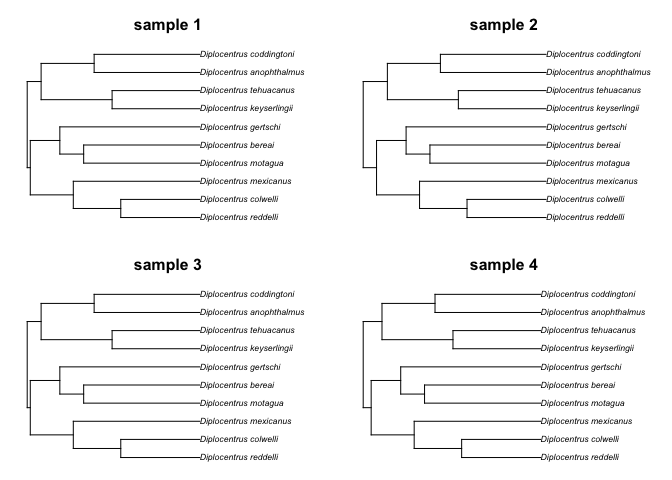
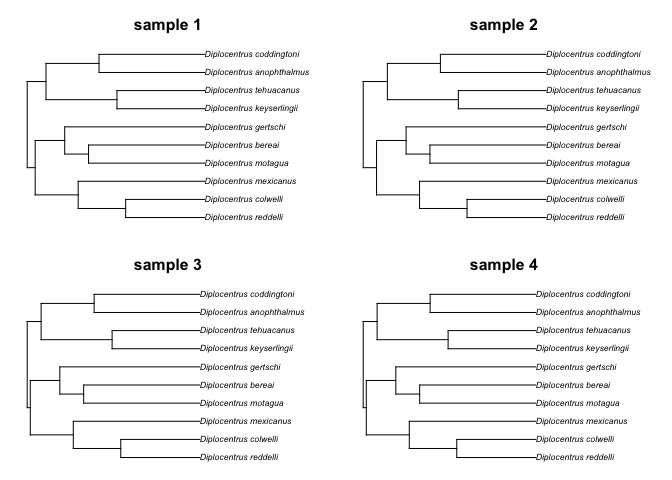
small fix to treepplr text

diff --git a/pages/code/treepplr-example.md b/pages/code/treepplr-example.md
@@ -40,9 +40,9 @@ load_all()
 ## Diversification models (CRBD)
 
 CRBD, ClaDS2, and BDD2 models are all fitted the same way, so I’ll use
-CRBD as the example here. For this example, I’m gonna use a tree for the
-scorpion genus Centruroides, which is shipped with the treepplr’s
-version on my branch improvements:
+CRBD as the example here. I’ll use a tree of the scorpion genus
+*Centruroides*, which is included in the version of treepplr on my
+`improvements` branch:
 
 ``` r
 # read in the tree
@@ -127,7 +127,7 @@ data_crbd <- tp_data(
     ── Input Check ──
 
     JSON file:
-    '/private/var/folders/vh/0rc0zn655lsd4yxfvkgdk1hr0000gp/T/RtmpeNbdf1//input-crbd-5426756.json'
+    '/private/var/folders/vh/0rc0zn655lsd4yxfvkgdk1hr0000gp/T/RtmpyQlJz4//input-crbd-5426756.json'
 
     Model name: crbd
 
@@ -154,7 +154,7 @@ data_crbd
     ── Data Input ──
 
     Data file:
-    '/private/var/folders/vh/0rc0zn655lsd4yxfvkgdk1hr0000gp/T/RtmpeNbdf1//input-crbd-5426756.json'
+    '/private/var/folders/vh/0rc0zn655lsd4yxfvkgdk1hr0000gp/T/RtmpyQlJz4//input-crbd-5426756.json'
 
     Model: "crbd"
 
@@ -256,14 +256,14 @@ crbd_smc_res <- tp_run(
 
     ✔ Completed
 
-    Elapsed time: 0.75 secs
+    Elapsed time: 0.95 secs
 
     Model: crbd
 
     Method: smc-apf
 
     Output directory:
[2 lines of base64/hex data omitted]
 
     Output file(s): "out.json"
 
@@ -282,14 +282,14 @@ crbd_mcmc_res <- tp_run(
 
     ✔ Completed
 
-    Elapsed time: 2.98 secs
+    Elapsed time: 4.11 secs
 
     Model: crbd
 
     Method: mcmc
 
     Output directory:
[2 lines of base64/hex data omitted]
 
     Output file(s): "out1.json" and "out2.json"
 
@@ -359,14 +359,14 @@ crbd_smc_res_sub <- tp_run(
 
     ✔ Completed
 
-    Elapsed time: 0.72 secs
+    Elapsed time: 0.73 secs
 
     Model: crbd
 
     Method: smc-apf
 
     Output directory:
[2 lines of base64/hex data omitted]
 
     Output file(s): "out.json"
 
@@ -391,16 +391,16 @@ crbd_smc_res
     # A tibble: 28 × 7
        sweep particle log_weight norm_constant norm_weight lambda    mu
        <int>    <int>      <dbl>         <dbl>       <dbl>  <dbl> <dbl>
-     1     1        1      -2.55         -492.           1  0.292 0.239
-     2     1        2      -2.55         -492.           1  0.292 0.239
-     3     1        3      -2.55         -492.           1  0.292 0.239
-     4     1        4      -2.55         -492.           1  0.292 0.239
-     5     1        6      -2.55         -492.           1  0.292 0.239
-     6     1        7      -2.55         -492.           1  0.292 0.239
-     7     1        8      -2.55         -492.           1  0.292 0.239
-     8     1        9      -2.55         -492.           1  0.292 0.239
-     9     1       10      -2.55         -492.           1  0.292 0.239
-    10     1       11      -2.55         -492.           1  0.292 0.239
+     1     1        1      -2.64         -546.    1.34e-32  0.759 0.696
+     2     1        2      -2.64         -546.    1.34e-32  0.759 0.696
+     3     1        3      -2.64         -546.    1.34e-32  0.759 0.696
+     4     1        4      -2.64         -546.    1.34e-32  0.759 0.696
+     5     1        5      -2.64         -546.    1.34e-32  0.759 0.696
+     6     1        6      -2.64         -546.    1.34e-32  0.759 0.696
+     7     1        7      -2.64         -546.    1.34e-32  0.759 0.696
+     8     1        8      -2.64         -546.    1.34e-32  0.759 0.696
+     9     1        9      -2.64         -546.    1.34e-32  0.759 0.696
+    10     1       11      -2.64         -546.    1.34e-32  0.759 0.696
     # ℹ 18 more rows
 
 ``` r
@@ -418,10 +418,10 @@ crbd_smc_res_sub
     # A tibble: 4 × 7
       sweep particle log_weight norm_constant norm_weight lambda    mu
       <int>    <int>      <dbl>         <dbl>       <dbl>  <dbl> <dbl>
-    1     1        1     -0.693         -865.    6.15e-65  0.458 0.140
-    2     1        2     -0.693         -865.    6.15e-65  0.458 0.140
-    3     2        1     -0.693         -717.    1   e+ 0  0.624 0.382
-    4     2        2     -0.693         -717.    1   e+ 0  0.624 0.382
+    1     1        1     -0.693         -502.  0.00000928  0.334 0.268
+    2     1        2     -0.693         -502.  0.00000928  0.334 0.268
+    3     2        1     -0.693         -491.  1           0.345 0.304
+    4     2        2     -0.693         -491.  1           0.345 0.304
 
 ``` r
 table(crbd_smc_res_sub$sweep)
@@ -438,16 +438,16 @@ crbd_mcmc_res
     # A tibble: 32 × 4
          run iteration  lambda       mu
        <int>     <int>   <dbl>    <dbl>
-     1     1         1 0.00339 0.000301
-     2     1         2 0.00339 0.000301
-     3     1         3 0.00339 0.000301
-     4     1         4 0.00339 0.000301
-     5     1         5 0.00339 0.000301
-     6     1         6 0.00339 0.000301
-     7     1         7 0.00339 0.000301
-     8     1         8 0.00339 0.000301
-     9     1         9 0.00339 0.000301
-    10     1        10 0.00339 0.000301
+     1     1         1 0.00146 0.000481
+     2     1         2 0.00146 0.000481
+     3     1         3 0.00146 0.000481
+     4     1         4 0.00146 0.000481
+     5     1         5 0.00146 0.000481
+     6     1         6 0.00146 0.000481
+     7     1         7 0.00146 0.000481
+     8     1         8 0.00146 0.000481
+     9     1         9 0.00146 0.000481
+    10     1        10 0.00146 0.000481
     # ℹ 22 more rows
 
 ``` r
@@ -557,7 +557,7 @@ data_tree_inf <- tp_data(
     ── Input Check ──
 
     JSON file:
-    '/private/var/folders/vh/0rc0zn655lsd4yxfvkgdk1hr0000gp/T/RtmpeNbdf1//input-tree_inference_pruning_gtr-31eaa08.json'
+    '/private/var/folders/vh/0rc0zn655lsd4yxfvkgdk1hr0000gp/T/RtmpyQlJz4//input-tree_inference_pruning_gtr-31eaa08.json'
 
     Model name: tree_inference_pruning_gtr
 
@@ -601,14 +601,14 @@ tree_smc_res <- tp_run(
 
     ✔ Completed
 
-    Elapsed time: 0.83 secs
+    Elapsed time: 0.94 secs
 
     Model: tree_inference_pruning_gtr
 
     Method: smc-apf
 
     Output directory:
[2 lines of base64/hex data omitted]
 
     Output file(s): "out.json"
 
@@ -633,14 +633,14 @@ tree_mcmc_res <- tp_run(
 
     ✔ Completed
 
-    Elapsed time: 1.97 secs
+    Elapsed time: 1.83 secs
 
     Model: tree_inference_pruning_gtr
 
     Method: mcmc
 
     Output directory:
[2 lines of base64/hex data omitted]
 
     Output file(s): "out-mcmc1.json" and "out-mcmc2.json"
 
@@ -658,8 +658,8 @@ str(tree_smc_res)
 
     List of 3
      $ tree        :List of 5
-      ..$ edge       : int [1:18, 1:2] 11 12 13 13 14 14 12 15 15 16 ...
-      ..$ edge.length: num [1:18] 0.0301 0.0226 0.2983 0.2733 0.025 ...
+      ..$ edge       : int [1:18, 1:2] 11 12 13 13 14 14 12 15 16 16 ...
+      ..$ edge.length: num [1:18] 0.0312 0.0182 0.2895 0.2592 0.0304 ...
       ..$ tip.label  : chr [1:10] "1" "2" "3" "4" ...
       ..$ Nnode      : int 9
       ..$ node.label : chr [1:9] "1" "1" "1" "1" ...
@@ -669,11 +669,11 @@ str(tree_smc_res)
       ..- attr(*, "names")= chr "MAP"
      $ node_summary: tibble [9 × 7] (S3: tbl_df/tbl/data.frame)
       ..$ node      : int [1:9] 11 12 13 14 15 16 17 18 19
-      ..$ posterior : num [1:9] 1 1 1 1 1 1 1 1 1
-      ..$ age_mean  : num [1:9] 0.339 0.329 0.298 0.025 0.199 ...
-      ..$ age_median: num [1:9] 0.351 0.321 0.298 0.025 0.199 ...
-      ..$ age_lower : num [1:9] 0.322 0.321 0.298 0.025 0.199 ...
-      ..$ age_upper : num [1:9] 0.358 0.347 0.298 0.025 0.199 ...
+      ..$ posterior : num [1:9] 1 1 1 1 1 ...
+      ..$ age_mean  : num [1:9] 0.3448 0.3089 0.2895 0.0304 0.1928 ...
+      ..$ age_median: num [1:9] 0.339 0.3077 0.2895 0.0304 0.1928 ...
+      ..$ age_lower : num [1:9] 0.3348 0.3075 0.2895 0.0304 0.1928 ...
+      ..$ age_upper : num [1:9] 0.3941 0.3202 0.2895 0.0304 0.1928 ...
       ..$ n_trees   : int [1:9] 19 19 19 19 19 19 19 19 19
 
 The first element is the MAP tree, an `ape::phylo` object. `$tree_score`
@@ -775,10 +775,10 @@ dplyr::bind_rows(
     # A tibble: 4 × 6
       Min.        `1st Qu.`   Median      Mean        `3rd Qu.`   Max.       
       <table[1d]> <table[1d]> <table[1d]> <table[1d]> <table[1d]> <table[1d]>
-    1 0.005209002 0.07453129  0.1334419   0.1246279   0.1784321   0.2363658  
+    1 0.013450769 0.07453129  0.1334419   0.1255436   0.1784321   0.2363658  
     2 0.022540398 0.07453129  0.1334419   0.1265536   0.1784321   0.2363658  
     3 0.005209002 0.07453129  0.1334419   0.1246279   0.1784321   0.2363658  
-    4 0.013450769 0.07453129  0.1334419   0.1255436   0.1784321   0.2363658  
+    4 0.005209002 0.07453129  0.1334419   0.1246279   0.1784321   0.2363658  
 
 Finally, let’s check our summary of trees sampled with MCMC:
 
